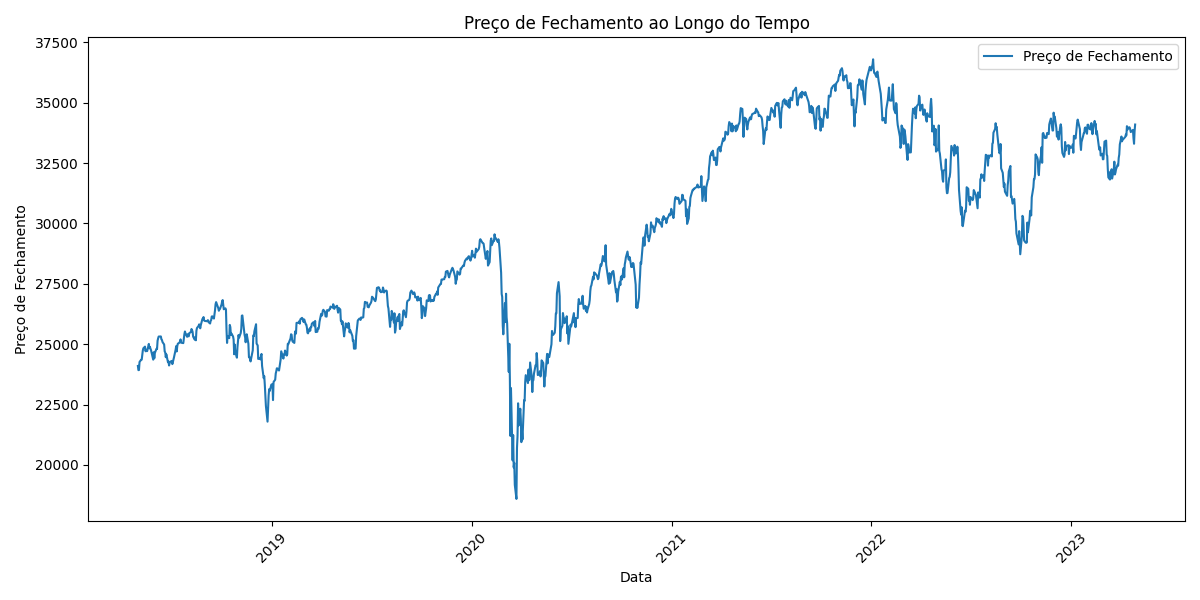
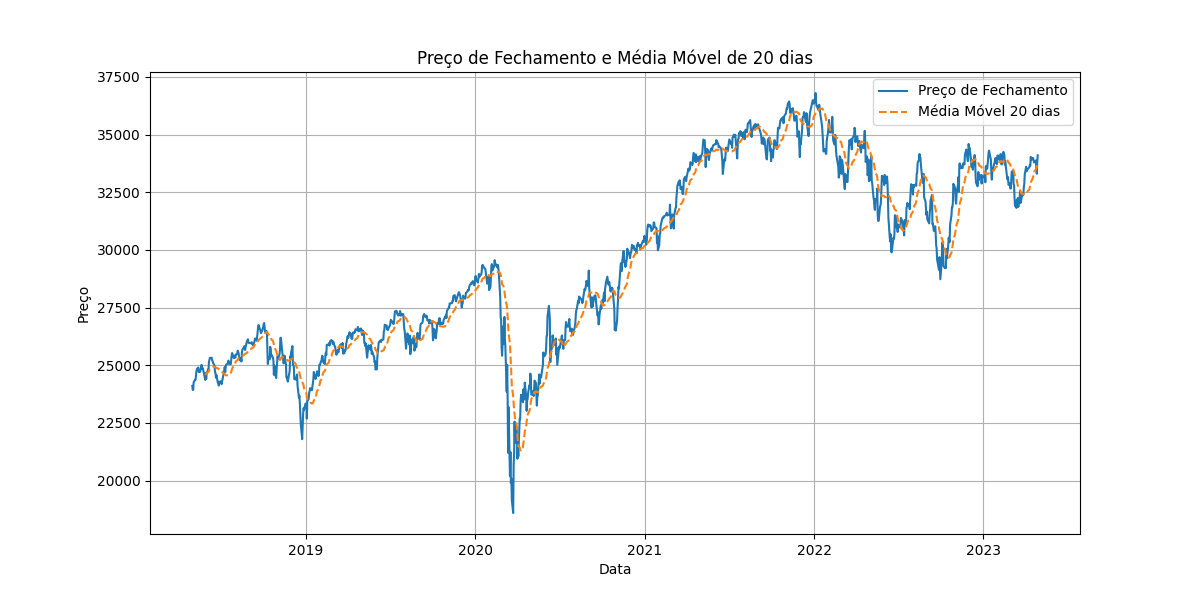
feat: adiciona dashboard de análise financeira com Streamlit

diff --git a/analise_financeira.py b/analise_financeira.py
@@ -1,102 +1,83 @@
 import pandas as pd
 import matplotlib.pyplot as plt
-
-# Caminho do arquivo
 arquivo = "archive/yahoo_data.xlsx"
-
-# Leitura do Excel
-df = pd.read_excel(arquivo)
-
-# Exibe as 5 primeiras linhas
-print("Primeiras linhas da planilha:")
+df = pd.read_excel (arquivo)
+print("Primeiras linhas da Planilha:")
 print(df.head())
-
-# Verifica colunas disponíveis
 print("\nColunas disponíveis:")
 print(df.columns)
-
-# Exibe informações gerais sobre o DataFrame (colunas, tipos, valores nulos)
 print(df.info())
-
-# Estatísticas descritivas das colunas numéricas (média, desvio, mínimo, máximo, quartis, etc)
 print(df.describe())
 
-# Converter a coluna Date para datetime
 df['Date'] = pd.to_datetime(df['Date'])
-
-# Ordenar o DataFrame pela data (do mais antigo para o mais recente)
-df = df.sort_values(by='Date')
-
-print("\nData após conversão e ordenação:")
+df = df.sort_values(by= 'Date')
+print("\nData após conversão e ordenação")
 print(df.head())
 
-# Plotar gráfico de linha do preço de fechamento ajustado ao longo do tempo
-plt.figure(figsize=(12, 6))  # Tamanho do gráfico
-plt.plot(df['Date'], df['Adj Close**'], label='Preço Fechamento Ajustado')
+plt.figure(figsize=(12,6))
+plt.plot(df['Date'], df['Adj Close**'], label ='Preço de Fechamento Ajustado')
+
 plt.title('Evolução do Preço de Fechamento Ajustado')
 plt.xlabel('Data')
 plt.ylabel('Preço')
 plt.legend()
 plt.grid(True)
-plt.savefig('grafico_1.png')  # ✅ Salvando o primeiro gráfico
-# plt.show()
+plt.savefig('grafico_1.png')
 
-# Gráfico com Open, High, Low, Close
-plt.figure(figsize=(14, 7))
-plt.plot(df['Date'], df['Open'], label='Abertura (Open)', alpha=0.7)
-plt.plot(df['Date'], df['High'], label='Máximo (High)', alpha=0.7)
-plt.plot(df['Date'], df['Low'], label='Mínimo (Low)', alpha=0.7)
-plt.plot(df['Date'], df['Close*'], label='Fechamento (Close)', alpha=0.7)
-plt.title('Preços Open, High, Low e Close ao Longo do Tempo')
+plt.figure(figsize=(14,7))
+
+plt.plot(df['Date'], df['Open'], label ='Abertura (Open)', alpha= 0.7)
+plt.plot(df['Date'], df['High'], label= 'Maximo (High)', alpha= 0.7)
+plt.plot(df['Date'], df['Low'], label = 'Mínimo (Low)', alpha= 0.7)
+plt.plot(df['Date'], df['Close*'], label='Fechamento (Close)', alpha= 0.7)
+
+plt.title('Preços Open, High, Low e Close ao Longo do Tempo ')
 plt.xlabel('Data')
 plt.ylabel('Preço')
 plt.legend()
 plt.grid(True)
-plt.savefig('grafico_2.png')  # ✅ Salvando o segundo gráfico
-# plt.show()
 
-# Gráfico de Volume
-plt.figure(figsize=(14, 5))
+plt.savefig("grafico_2.png")
+
+plt.figure(figsize=(14, 5))  
+
 plt.bar(df['Date'], df['Volume'], color='purple', alpha=0.6)
+
 plt.title('Volume de Negociações ao Longo do Tempo')
 plt.xlabel('Data')
 plt.ylabel('Volume')
-plt.grid(True, axis='y')
-plt.savefig('grafico_3.png')  # ✅ Salvando o terceiro gráfico
-# plt.show()
+plt.grid(True, axis='y')  
 
-# Média móvel simples de 20 dias
+plt.savefig('grafico_3.png')
+
 df['SMA_20'] = df['Adj Close**'].rolling(window=20).mean()
-
-plt.figure(figsize=(12,6))
+plt.figure(figsize=(12, 6))
 plt.plot(df['Date'], df['Close*'], label='Preço de Fechamento')
-plt.title('Preço de Fechamento ao Longo do Tempo')
+plt.plot(df['Date'], df['SMA_20'], label='Média Móvel 20 dias', linestyle='--')
+plt.title('Preço de Fechamento e Média Móvel de 20 dias')
 plt.xlabel('Data')
-plt.ylabel('Preço de Fechamento')
-plt.xticks(rotation=45)
+plt.ylabel('Preço')
 plt.legend()
-plt.tight_layout()
-plt.savefig('grafico_4.png')  # ✅ Salvando o quarto gráfico
-# plt.show()
+plt.grid(True)
+plt.savefig('grafico_4.png')
 
-# Cálculo de médias móveis de 7 e 30 dias
-df['Date'] = pd.to_datetime(df['Date'])
-print(df.isnull().sum())
 
 df['MA7'] = df['Close*'].rolling(window=7).mean()
 df['MA30'] = df['Close*'].rolling(window=30).mean()
-
-plt.figure(figsize=(12,6))
+plt.figure(figsize=(12, 6))
 plt.plot(df['Date'], df['Close*'], label='Preço de Fechamento')
-plt.plot(df['Date'], df['MA7'], label='Média Móvel 7 dias')
-plt.plot(df['Date'], df['MA30'], label='Média Móvel 30 dias')
-plt.title('Preço de Fechamento com Médias Móveis')
+plt.plot(df['Date'], df['MA7'], label='Média Móvel 7 dias', linestyle='--')
+plt.plot(df['Date'], df['MA30'], label='Média Móvel 30 dias', linestyle='--')
+plt.title('Preço de Fechamento com Médias Móveis de 7 e 30 dias')
 plt.xlabel('Data')
 plt.ylabel('Preço')
-plt.xticks(rotation=45)
 plt.legend()
-plt.tight_layout()
-plt.savefig('grafico_5.png')  # ✅ Salvando o quinto gráfico
-# plt.show()
+plt.grid(True)
+plt.savefig('grafico_5.png')
 
+print("\nEstatísticas do Preço de Fechamento:")
 print(df['Close*'].describe())
+
+
+
+

diff --git a/app.py b/app.py
@@ -1,0 +1,127 @@
+import streamlit as st
+import pandas as pd
+import matplotlib.pyplot as plt
+
+# Título do app
+st.title('📊 Dashboard - Análise Financeira')
+
+# Leitura dos dados
+df = pd.read_excel('archive/yahoo_data.xlsx')
+
+# Mostrar as primeiras linhas
+st.subheader('Dados - Primeiras Linhas')
+st.write(df.head())
+
+st.subheader('Gráfico - Preço de Fechamento Ajustado')
+
+fig, ax = plt.subplots (figsize=(10,5))
+ax.plot(df['Date'], df['Adj Close**'], label='Adj Close')
+ax.set_xlabel('Data')
+ax.set_ylabel('Preço')
+ax.set_title('Evolução dp preço de Fechamento Ajustado')
+ax.legend()
+ax.grid(True)
+from matplotlib.dates import AutoDateLocator, AutoDateFormatter
+
+locator = AutoDateLocator()
+formatter = AutoDateFormatter(locator)
+
+ax.xaxis.set_major_locator(locator)
+ax.xaxis.set_major_formatter(formatter)
+fig.autofmt_xdate()
+
+st.pyplot(fig)
+
+st.subheader('Gráfico - Open, High, Low e Close')
+
+fig2, ax2 = plt.subplots(figsize=(10, 5))
+ax2.plot(df['Date'], df['Open'], label='Open', alpha=0.7)
+ax2.plot(df['Date'], df['High'], label='High', alpha=0.7)
+ax2.plot(df['Date'], df['Low'], label='Low', alpha=0.7)
+ax2.plot(df['Date'], df['Close*'], label='Close', alpha=0.7)
+
+ax2.set_xlabel('Data')
+ax2.set_ylabel('Preço')
+ax2.set_title('Preços Open, High, Low e Close ao Longo do Tempo')
+ax2.legend()
+ax2.grid(True)
+locator = AutoDateLocator()
+formatter = AutoDateFormatter(locator)
+
+ax2.xaxis.set_major_locator(locator)
+ax2.xaxis.set_major_formatter(formatter)
+fig2.autofmt_xdate()
+
+st.pyplot(fig2)
+
+st.subheader('Gráfico - Volume de Negociações')
+
+fig3, ax3 = plt.subplots(figsize=(10, 5))
+ax3.bar(df['Date'], df['Volume'], color='purple', alpha=0.6)
+ax3.set_xlabel('Data')
+ax3.set_ylabel('Volume')
+ax3.set_title('Volume de Negociações ao Longo do Tempo')
+ax3.grid(True, axis='y')
+
+from matplotlib.dates import AutoDateLocator, AutoDateFormatter
+
+locator = AutoDateLocator()
+formatter = AutoDateFormatter(locator)
+
+ax3.xaxis.set_major_locator(locator)
+ax3.xaxis.set_major_formatter(formatter)
+fig3.autofmt_xdate()  
+
+st.pyplot(fig3)
+
+st.subheader('Gráfico - Preço de Fechamento com Média Móvel de 20 dias')
+
+# Calcula a média móvel de 20 dias
+df['SMA_20'] = df['Adj Close**'].rolling(window=20).mean()
+
+fig4, ax4 = plt.subplots(figsize=(10, 5))
+ax4.plot(df['Date'], df['Close*'], label='Preço de Fechamento')
+ax4.plot(df['Date'], df['SMA_20'], label='Média Móvel 20 dias', linestyle='--')
+
+ax4.set_xlabel('Data')
+ax4.set_ylabel('Preço')
+ax4.set_title('Preço de Fechamento com Média Móvel de 20 dias')
+ax4.legend()
+ax4.grid(True)
+
+# Ajusta as datas no eixo X
+locator = AutoDateLocator()
+formatter = AutoDateFormatter(locator)
+ax4.xaxis.set_major_locator(locator)
+ax4.xaxis.set_major_formatter(formatter)
+fig4.autofmt_xdate()
+
+st.pyplot(fig4)
+
+st.subheader('Gráfico - Preço de Fechamento com Médias Móveis de 7 e 30 dias')
+
+# Calcula as médias móveis
+df['MA7'] = df['Close*'].rolling(window=7).mean()
+df['MA30'] = df['Close*'].rolling(window=30).mean()
+
+fig5, ax5 = plt.subplots(figsize=(10, 5))
+ax5.plot(df['Date'], df['Close*'], label='Preço de Fechamento')
+ax5.plot(df['Date'], df['MA7'], label='Média Móvel 7 dias', linestyle='--')
+ax5.plot(df['Date'], df['MA30'], label='Média Móvel 30 dias', linestyle='--')
+
+ax5.set_xlabel('Data')
+ax5.set_ylabel('Preço')
+ax5.set_title('Preço de Fechamento com Médias Móveis de 7 e 30 dias')
+ax5.legend()
+ax5.grid(True)
+
+# Ajusta as datas no eixo X
+locator = AutoDateLocator()
+formatter = AutoDateFormatter(locator)
+ax5.xaxis.set_major_locator(locator)
+ax5.xaxis.set_major_formatter(formatter)
+fig5.autofmt_xdate()
+
+st.pyplot(fig5)
+
+

diff --git a/README.md b/README.md
@@ -1,28 +1,44 @@
-# Análise Financeira - Yahoo Data
+# 📊 Dashboard de Análise Financeira com Streamlit
 
-Este projeto realiza uma análise exploratória de dados financeiros usando o dataset `yahoo_data.xlsx`.
+Este projeto realiza uma análise exploratória e visualização interativa de dados financeiros históricos, utilizando Python, Pandas, Matplotlib e Streamlit.
 
-## 📊 O que foi feito
+---
 
-- Leitura e limpeza dos dados com **Pandas**.
-- Conversão e ordenação das datas.
-- Geração de gráficos:
-  - Preço de Fechamento Ajustado.
-  - Preços Open, High, Low, Close.
-  - Volume de Negociações.
-  - Médias Móveis de 20, 7 e 30 dias.
+## ✅ Sobre o Dataset
 
-## 🛠 Tecnologias usadas
+- Dataset: `archive/yahoo_data.xlsx`
+- Colunas:
+  - Data (`Date`)
+  - Abertura (`Open`)
+  - Máximo (`High`)
+  - Mínimo (`Low`)
+  - Fechamento (`Close*`)
+  - Fechamento Ajustado (`Adj Close**`)
+  - Volume (`Volume`)
 
-- Python
-- Pandas
-- Matplotlib
+---
 
-## ▶ Como executar
+## ✅ O que este projeto faz
 
-1. Clone ou baixe este repositório.
-2. Coloque o arquivo `yahoo_data.xlsx` na pasta `archive/`.
-3. Execute o script:
+✔ Leitura e limpeza de dados com Pandas  
+✔ Análises estatísticas descritivas  
+✔ Cálculo de médias móveis: 7, 20 e 30 dias  
+✔ 5 Gráficos interativos com Streamlit:  
+1. Preço de Fechamento Ajustado  
+2. Open, High, Low e Close  
+3. Volume de Negociações  
+4. Preço com Média Móvel de 20 dias  
+5. Preço com Médias Móveis de 7 e 30 dias  
+
+---
+
+## ✅ Como executar
+
+### 1. Clone o repositório
 
 ```bash
-python analise_financeira.py
+git clone https://github.com/AlexMell01/analise-financeira-yahoo.git
+cd analise-financeira-yahoo
+
+
+
